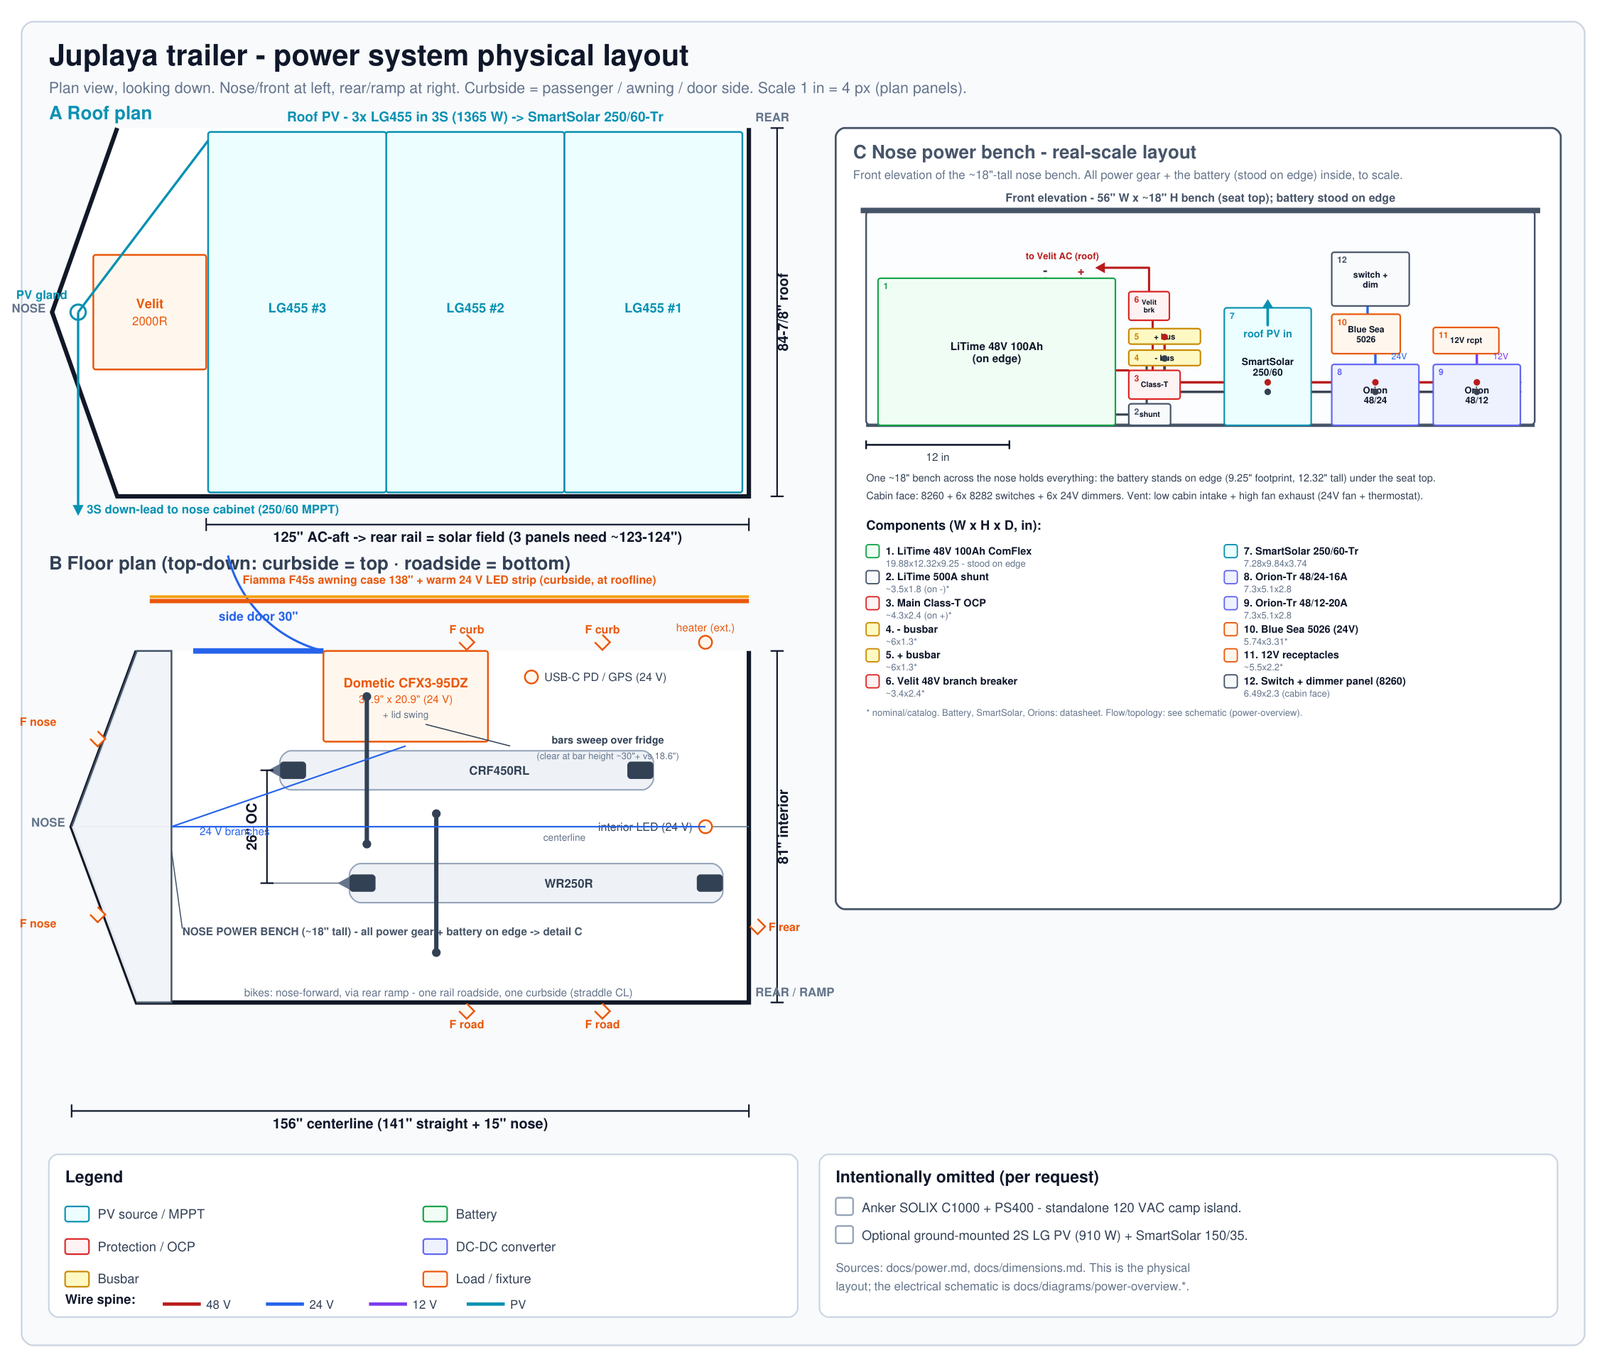
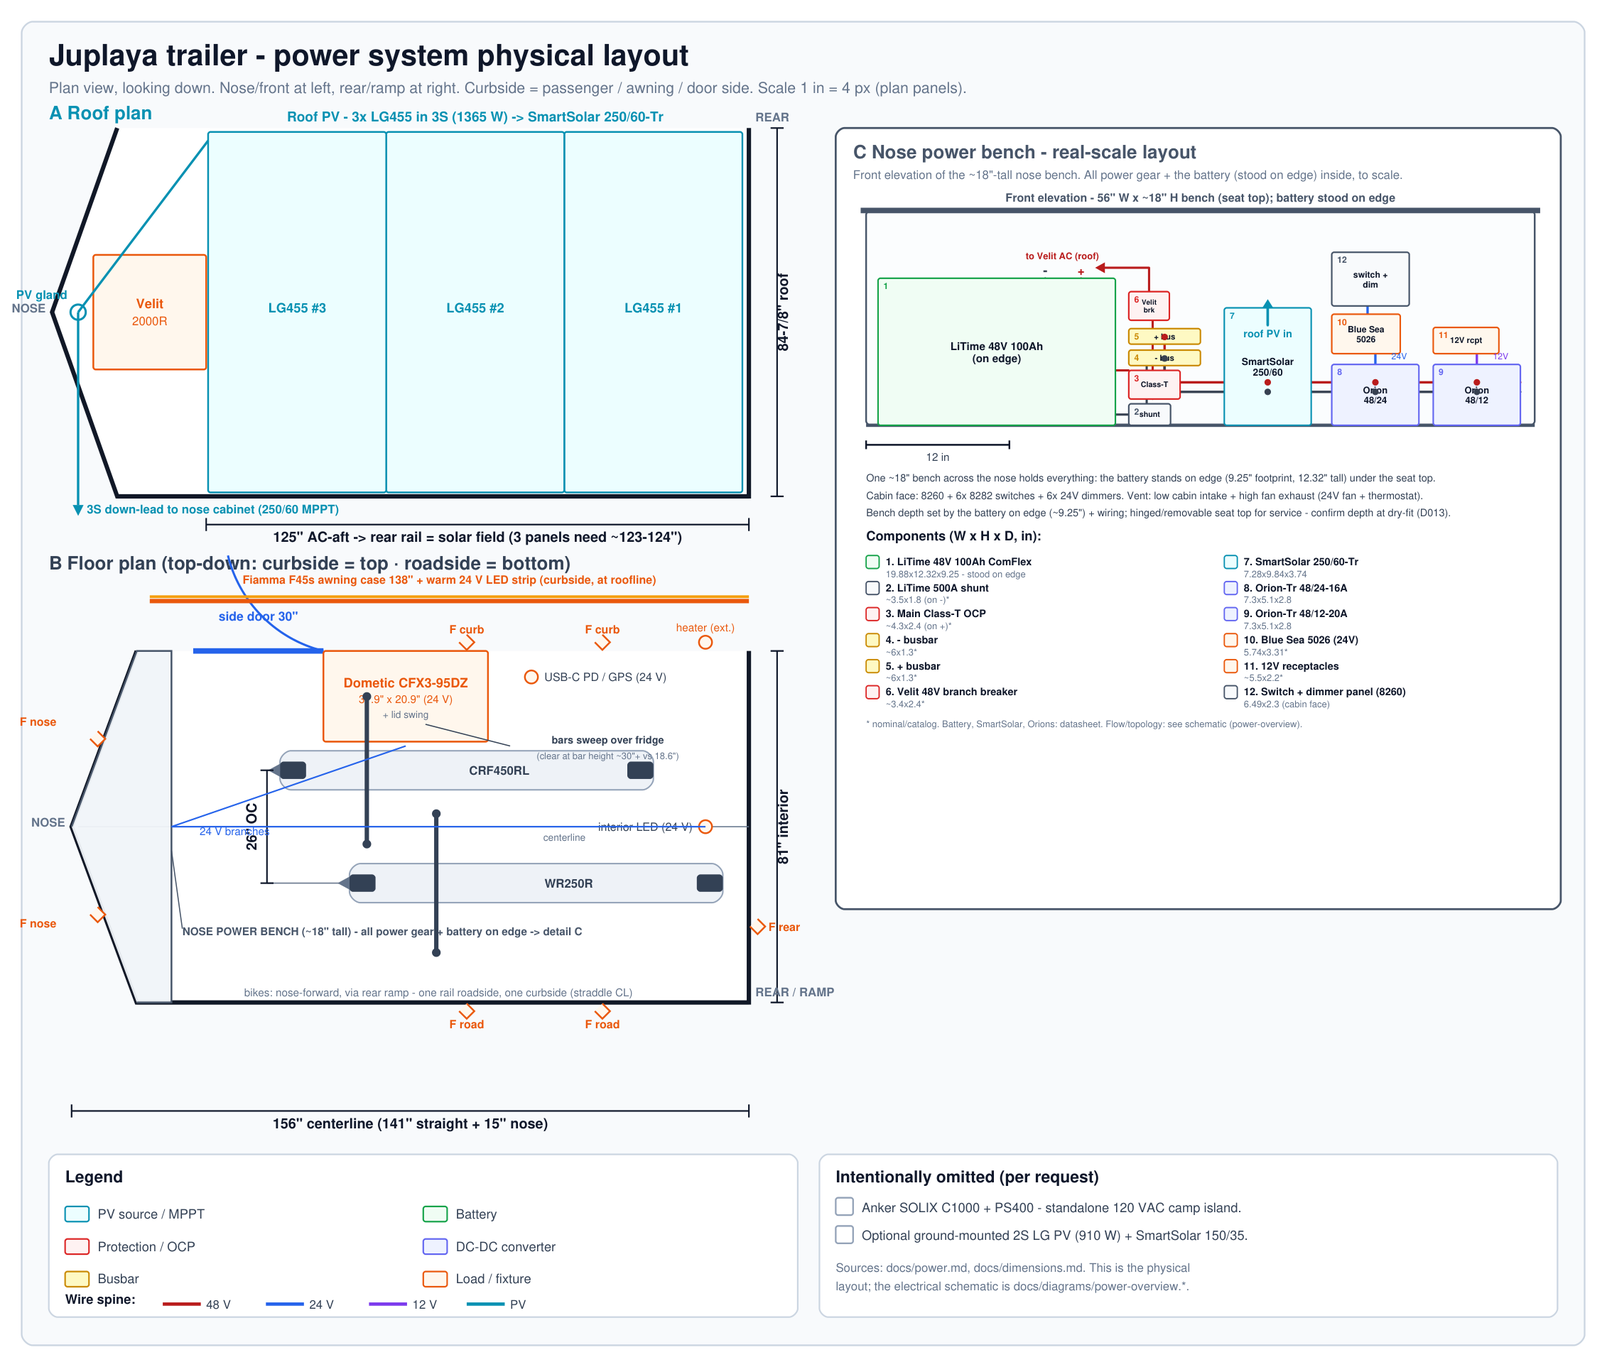
Ratify nose power bench (D013); propagate to build docs
- DECISION_LOG: add D013 (accepted) - nose power = one ~18" bench across
  the V-nose holding all power gear, battery stood on edge. Supersedes the
  ~8" wall cabinet + floor-mounted battery; D006 electrical content stands,
  only the housing changes. Open build details: bench depth, hinged/
  removable seat top for service, ventilation sizing.
- Build sheet: step 10 rewritten as the nose power bench (battery on edge,
  hinged top, confirm depth at dry-fit); fridge thermal note now references
  the nose-bench plume; "power cabinet" -> "nose bench" throughout.
- Diagram: added the bench depth + hinged/removable-top service note
  (cites D013) under the Panel C elevation.

Changed region(s): [[0.5261, 0.374, 0.7118, 0.5299], [0.7427, 0.374, 0.8665, 0.5299]]

diff --git a/scripts/generate_power_physical_layout_svg.py b/scripts/generate_power_physical_layout_svg.py
@@ -418,6 +418,8 @@ text(EX0, EYb + 52, "One ~18\" bench across the nose holds everything: the batte
      "(9.25\" footprint, 12.32\" tall) under the seat top.", size=9.5, fill=C["slate"])
 text(EX0, EYb + 68, "Cabin face: 8260 + 6x 8282 switches + 6x 24V dimmers. "
      "Vent: low cabin intake + high fan exhaust (24V fan + thermostat).", size=9.5, fill=C["slate"])
+text(EX0, EYb + 84, "Bench depth set by the battery on edge (~9.25\") + wiring; "
+     "hinged/removable seat top for service - confirm depth at dry-fit (D013).", size=9.5, fill=C["slate"])
 
 # component list (two columns, below)
 def listcol(items, lx, ytop):
@@ -426,10 +428,10 @@ def listcol(items, lx, ytop):
         rect(lx, yy - 10, 12, 12, fill=fill, stroke=stroke, sw=1.2, rx=2)
         text(lx + 18, yy - 1, f"{n}. {name}", size=9.5, weight=700, fill=C["ink"])
         text(lx + 18, yy + 10, dims, size=8.5, fill=C["muted"])
-text(EX0, EYb + 96, "Components  (W x H x D, in):", size=12, weight=700)
-listcol(comps[:6], EX0, EYb + 120)
-listcol(comps[6:], EX0 + 330, EYb + 120)
-text(EX0, EYb + 120 + 6 * 24 + 4, "* nominal/catalog. Battery, SmartSolar, Orions: datasheet. "
+text(EX0, EYb + 106, "Components  (W x H x D, in):", size=12, weight=700)
+listcol(comps[:6], EX0, EYb + 130)
+listcol(comps[6:], EX0 + 330, EYb + 130)
+text(EX0, EYb + 130 + 6 * 24 + 4, "* nominal/catalog. Battery, SmartSolar, Orions: datasheet. "
      "Flow/topology: see schematic (power-overview).", size=8.5, fill=C["muted"])
 
 # ---------------------------------------------------------------------------

diff --git a/docs/juplaya-trailer-context.md b/docs/juplaya-trailer-context.md
@@ -43,7 +43,7 @@ Detailed power design, diagrams, component tables, and commissioning rules now l
 
 Current Juplaya power verdict:
 
-- **DC trailer core:** roof 3× LG455 in 3S → Victron SmartSolar 250/60-Tr → LiTime 48V 100Ah ComFlex. Velit 2000R runs from a fused 48 V branch. Fridge/lights/USB/GPS run from the 24 V bus through one Victron Orion-Tr 48/24-16A. A Victron Orion-Tr IP43 48/12-20A feeds fused cigarette-lighter receptacles in the power cabinet for occasional 12 V loads.
+- **DC trailer core:** roof 3× LG455 in 3S → Victron SmartSolar 250/60-Tr → LiTime 48V 100Ah ComFlex. Velit 2000R runs from a fused 48 V branch. Fridge/lights/USB/GPS run from the 24 V bus through one Victron Orion-Tr 48/24-16A. A Victron Orion-Tr IP43 48/12-20A feeds fused cigarette-lighter receptacles in the nose bench for occasional 12 V loads.
 - **Optional trailer-battery margin:** deployable 2× LG455 in 2S → ordered Victron SmartSolar 150/35. Never combine roof 3S and ground 2S on one tracker.
 - **Small 120 VAC / storage comms:** Anker SOLIX C1000 + PS400 is the Juplaya AC island. Optional C1000 top-up from the trailer is only a fused/manual 24 V branch, about 240 W max, and must not starve the Orion/fridge bus. Starlink Mini is optional storage/camp comms, not the primary tracker; run it from the C1000 first or from a fused 12 V cabinet receptacle with Starlink's 12-24 V car adapter after shakedown.
 - **Deferred:** Victron MultiPlus-II 48/3000/35-50 120V remains the Phase 2 built-in inverter/shore-charger/transfer choice, not a Juplaya blocker.
@@ -178,7 +178,7 @@ Why this replaces the old rubber-coin lean: common coin roll is usually SBR (sty
 ### Fridge bay
 
 - **Curbside, immediately aft of the personnel door**, fridge E-track-strapped. Footprint 37.9" × 20.9" × 18.6" tall **plus lid-swing clearance — verify which way the split lids hinge before fixing the bay's wall orientation.** The location survives: outside reach under the awning, lid access in both modes, clear of the door swing.
-- **⚠ Thermal gate — HARDENED `[web-val]`:** the Dometic manual requires a **50 mm (~2") gap on all four sides** and flatly says **"do not place the cooling device in closed compartments."** An enclosed bay is non-compliant as worded. So: **the bay gives 50 mm all-sides clearance + forced through-flow ventilation** — "shaded" alone doesn't cut it. Then field-verify in-bay air temperature under desert sun with the awning out: **<43 °C (110 °F) to run at all, <30 °C (86 °F) to hold both dual-zone setpoints.** Keep the bay off the nose-cabinet heat plume. (Dometic error codes: Warning 34 = high ambient / blocked vent; Warning 33 = low supply voltage — see Systems for the wiring check.)
+- **⚠ Thermal gate — HARDENED `[web-val]`:** the Dometic manual requires a **50 mm (~2") gap on all four sides** and flatly says **"do not place the cooling device in closed compartments."** An enclosed bay is non-compliant as worded. So: **the bay gives 50 mm all-sides clearance + forced through-flow ventilation** — "shaded" alone doesn't cut it. Then field-verify in-bay air temperature under desert sun with the awning out: **<43 °C (110 °F) to run at all, <30 °C (86 °F) to hold both dual-zone setpoints.** Keep the bay off the nose-bench heat plume. (Dometic error codes: Warning 34 = high ambient / blocked vent; Warning 33 = low supply voltage — see Systems for the wiring check.)
 
 ### Walls — D009 (accepted)
 
@@ -207,7 +207,7 @@ Why this replaces the old rubber-coin lean: common coin roll is usually SBR (sty
 
 ### Lighting
 
-- **Switches live on the power cabinet for Juplaya.** Skip the entry-door light switch for now; it adds wall/door-area wiring and is easy to revisit later if use proves it matters. If convenient while walls are open, leave a labeled pull string or spare low-current pair toward the side-door bay.
+- **Switches live on the nose bench for Juplaya.** Skip the entry-door light switch for now; it adds wall/door-area wiring and is easy to revisit later if use proves it matters. If convenient while walls are open, leave a labeled pull string or spare low-current pair toward the side-door bay.
 - **Lighting controls — D012:** keep the six cabinet lighting switches and put a panel-mount 24 V dimmer downstream of each switched branch: INTERIOR, CURB FLOOD, ROAD FLOOD, NOSE FLOOD, REAR FLOOD, and AWNING. The switches are hard enables; the dimmers set brightness.
 - **Exterior lighting layout:** **2 curbside floods, 2 roadside floods, 1 flood on each V-nose face, 1 rear flood, plus separate awning lighting**. Optional low amber step/courtesy can share the awning circuit if added. Run them from the **24 V house bus** using 12-28 VDC / 10-30 VDC IP67-ish fixtures, fused per branch, switched and dimmed at the cabinet. Keep all house exterior lighting isolated from the OEM trailer lights and 7-way tow plug.
 - **Selected fixture class:** seven **Super Bright LEDs `VAL2-NW9`** floods (9", black, 1450 lm, 18 W, 4000 K, 90 deg, IP67, 12-28 VDC) are **ORDERED** per the [exterior-lighting panel](../runs/exterior-lighting-panel/synth/VERDICT.md). `VAL2-WW9` is the warm 3000 K alternate if replacement stock is ever needed. Use separate warm 24 V dimmable strip lighting for the awning, such as **`RA-IP68-80CRI-5m` 3000 K**, not another glare flood.
@@ -226,9 +226,9 @@ Why this replaces the old rubber-coin lean: common coin roll is usually SBR (sty
 
 Dedicated ordering and budget ledger: **[order-sheet.md](order-sheet.md)**. The list below stays abbreviated so this build sheet remains the engineering source of truth instead of the purchasing ledger.
 
-- **Long-lead, order now:** return LiTime 5 kW; **defer the Victron MultiPlus-II until Phase 2** · Fiamma F45s 350 + Tie Down S + lag anchors/deadman bags · Victron Orion-Tr 48/24-16A · **Victron Orion-Tr IP43 48/12-20A — ADDED for power-cabinet 12 V receptacles** · **Victron SmartSolar MPPT 250/60-Tr + 250 V-class roof PV disconnect/OCP** · **Victron SmartSolar MPPT 150/35 for deployable 2S LG ground — ORDERED, connector variant pending** · the 48 V-side UL-489 breaker (**verify SKU: 7463 vs "7443"**, web-val) · **power-cabinet interior transfer grilles/filter + 24 V cabinet fan + normally-open thermostat** · standoff + backing steel stock (owner fab) · **2 × 8 ft flanged floor L-track — ORDERED / on the way** · **Bolt It On 360 L-track wheel chocks — ORDERED**.
+- **Long-lead, order now:** return LiTime 5 kW; **defer the Victron MultiPlus-II until Phase 2** · Fiamma F45s 350 + Tie Down S + lag anchors/deadman bags · Victron Orion-Tr 48/24-16A · **Victron Orion-Tr IP43 48/12-20A — ADDED for nose-bench 12 V receptacles** · **Victron SmartSolar MPPT 250/60-Tr + 250 V-class roof PV disconnect/OCP** · **Victron SmartSolar MPPT 150/35 for deployable 2S LG ground — ORDERED, connector variant pending** · the 48 V-side UL-489 breaker (**verify SKU: 7463 vs "7443"**, web-val) · **nose-bench interior transfer grilles/filter + 24 V cabinet fan + normally-open thermostat** · standoff + backing steel stock (owner fab) · **2 × 8 ft flanged floor L-track — ORDERED / on the way** · **Bolt It On 360 L-track wheel chocks — ORDERED**.
 - **Coatings:** Henry 887 Tropi-Cool White 100% Silicone Roof Coating (HE887HS018, 4.75 gal pail) + Henry 884 Tropi-Cool silicone sealant · **Durabak-18 Outdoor Textured light grey, 3 gal — ORDERED, delivery June 12–15, 2026; 4th gal conditional** after patch/first-pass coverage for ramp/chock/L-track wear lanes.
-- **Accessories:** Blue Sea 5026 · Scanstrut SC-USB-F3 · LandAirSea Overdrive Permanent GPS with hardwire cable — ORDERED · locks (above) including ordered Nu-Set personnel-door hasp/backing · 14 AWG runs + fuse assortment · fused cigarette-lighter receptacles for the power cabinet · optional Starlink Mini treated as storage/camp comms · dome/task lights (24 V preferred; 12 V only at the cabinet outlets) · **exterior lighting: 7 × Super Bright LEDs `VAL2-NW9` floods — ORDERED, 1 × warm 24 V awning strip such as `RA-IP68-80CRI-5m`, optional amber step/courtesy, Blue Sea 8260 switch panel + 6 × Blue Sea 8282 switches, 6 × panel-mount 24 V dimmers, and custom labels**.
+- **Accessories:** Blue Sea 5026 · Scanstrut SC-USB-F3 · LandAirSea Overdrive Permanent GPS with hardwire cable — ORDERED · locks (above) including ordered Nu-Set personnel-door hasp/backing · 14 AWG runs + fuse assortment · fused cigarette-lighter receptacles for the nose bench · optional Starlink Mini treated as storage/camp comms · dome/task lights (24 V preferred; 12 V only at the cabinet outlets) · **exterior lighting: 7 × Super Bright LEDs `VAL2-NW9` floods — ORDERED, 1 × warm 24 V awning strip such as `RA-IP68-80CRI-5m`, optional amber step/courtesy, Blue Sea 8260 switch panel + 6 × Blue Sea 8282 switches, 6 × panel-mount 24 V dimmers, and custom labels**.
 - **Windows:** 2× RP-FRMWIN-1222-TRM + 1× RP-FRMWIN-2015-TRM (placement decided — Climate section).
 
 ---
@@ -251,7 +251,7 @@ The design freeze (below) gates step 3 onward. Within the sequence, **"while the
 7. **Floor liner + walls closed** — floor L-track recessed/bolted through to steel/backing first; Durabak-18 floor+cove+ramp applied and cured; factory 3/8" PlexCore + FRP land over the cove, seams/edges sealed, and trimmed to the wall E-track edges.
 8. **Window cuts + install** — after the row-12 clamp check against the real sandwich; door window gets perimeter re-framing.
 9. **Tracks & remaining floor hardware** — wall E-track rows bolted to the rivnuts in the posts; floor L-track masks pulled and slots/hardware inspected.
-10. **Nose cabinet** — battery, SmartSolar, shunt, breaker, Orion-Tr 48/24, Orion-Tr 48/12, 5026, fused 12 V receptacles; rail wiring out to branches; cabinet-to-cabin ventilation with low filtered intake, high fan-assisted exhaust, 24 V fan, and temperature switch. Avoid exterior penetrations for now; if shakedown heat becomes a real issue, reopen the exterior-vent fallback. MultiPlus mounting space can be reserved for Phase 2, but it is not a Juplaya install dependency.
+10. **Nose power bench (~18" tall) — D013** — one bench across the V-nose holds all power gear: the LiTime battery **stood on edge** (9.25" footprint, 12.32" tall) under the seat top, plus shunt, SmartSolar 250/60, Class-T main OCP, busbars, Orion-Tr 48/24, Orion-Tr 48/12, 5026, and fused 12 V receptacles; rail wiring out to branches. Bench-to-cabin ventilation: low filtered intake, high fan-assisted exhaust, 24 V fan, temperature switch. **Hinged/removable seat top for service access**; confirm front-to-back depth at dry-fit (battery ~9.25" on edge + wiring/working space). Avoid exterior penetrations for now; reopen the exterior-vent fallback if shakedown heat demands it. MultiPlus space can be reserved for Phase 2, but it is not a Juplaya install dependency.
 11. **Systems** — fridge bay (50 mm clearance + through-flow), cabinet-switched interior/exterior lights, USB/GPS, awning case onto the standoffs, tie-down anchors.
 12. **Weigh & commission** — scale (curb + tongue, row 18); combined charge-current cap ≤100 A; verify roof 3S lands only on SmartSolar and optional LG ground 2S lands only on its own MPPT path; verify the C1000 + PS400 covers small AC loads; if a 24 V C1000 top-up branch is added, test that it does not brown out or overload the Orion/fridge bus; shakedown camp before Juplaya.
 
@@ -272,7 +272,7 @@ The design freeze (below) gates step 3 onward. Within the sequence, **"while the
 | 7 | **Floor plan final** — bike stagger, fridge bay, L-track rows | 26" L-track spacing accepted; floor steel 16" OC and fridge bay depth recorded (rows 10, 17); bike tape geometry deferred in favor of physical bike-in-trailer fit check (row 11); 2×8 ft flanged L-track and Bolt It On 360 chocks received/fit-checked; chock hardware kit confirmed | ◐ measurements closed; physical fit/chock check open |
 | 8 | **Flooring material** | D010 accepted: Durabak-18 Outdoor Textured light grey, 3 gal ordered for June 12–15 delivery; 4th gal conditional after patch/first-pass coverage; PlexCore adhesion + fuel-drip patch required before coating | ☑ 2026-06-05 |
 | 9 | **FRP trim system** | corner/seam/edge/reveal profiles + adhesive picked; FRP adhesive compatible with PlexCore or proven by bond patch | ☐ |
-| 10 | **Order list frozen** — every SKU (incl. SmartSolar 250/60-Tr + 250 V-class PV disconnect/OCP, ordered SmartSolar 150/35 ground MPPT, roof solar rail/backing hardware, C1000/PS400 carried as the Juplaya AC island, 7463-vs-7443 breaker check, Henry 887/884, Durabak quantity, power-cabinet interior vent/fan/thermostat parts, exterior lighting + cabinet switch/dimmer parts, ordered floor L-track, ordered Bolt It On 360 chocks). MultiPlus-II remains Phase 2, not a freeze blocker. | rows 1–9 closed | ☐ |
+| 10 | **Order list frozen** — every SKU (incl. SmartSolar 250/60-Tr + 250 V-class PV disconnect/OCP, ordered SmartSolar 150/35 ground MPPT, roof solar rail/backing hardware, C1000/PS400 carried as the Juplaya AC island, 7463-vs-7443 breaker check, Henry 887/884, Durabak quantity, nose-bench interior vent/fan/thermostat parts, exterior lighting + cabinet switch/dimmer parts, ordered floor L-track, ordered Bolt It On 360 chocks). MultiPlus-II remains Phase 2, not a freeze blocker. | rows 1–9 closed | ☐ |
 
 Post-freeze (build-phase, not design): fridge-bay ventilation check + lid hinge orientation · deployed-fabric vs open-door at pitch · **curb-weight weigh-in** (row 18).
 

diff --git a/docs/DECISION_LOG.md b/docs/DECISION_LOG.md
@@ -43,6 +43,7 @@ expected to honor the budget; older rows may be grandfathered.
 | D010 | accepted | **Flooring: Durabak-18 Outdoor Textured light grey flexible polyurethane bed-liner coating**, 3 gal ordered 2026-06-05 for June 12–15 delivery; 4th gal remains conditional after patch/first-pass coverage for ramp/chock/L-track wear lanes. Recessed floor L-track stays masked and usable. | Rubber coin roll was the old lean, but common SBR coin rubber is wrong for moto fuel/oil spills and loose sheet goods trap playa dust/water against the wood floor. Raptor's acceptable light-gray 2K path had no local availability or reliable ETA, so it did not beat Durabak on schedule. | See the build sheet, Interior/Flooring section, plus the web-validation addendum and [floor-coating verdict](../runs/floor-coating-adversarial/synth/VERDICT.md). Sequence changes: floor L-track first, liner+cove before FRP, ramp included, drain to rear by raising the tongue. Wording is **fuel/oil spill-resistant, clean promptly**, not fuel-proof. | PlexCore adhesion or fuel-drip patch fails, texture is unacceptable for camp use, Durabak delivery slips past the June 12–15 window, or 3 gal coverage proves short enough to release the conditional 4th gallon. |
 | D011 | accepted | **Wall E-track mounts directly to the 1" thin-wall steel tube uprights with steel 1/4-20 rivnuts; PlexCore/FRP trim up to the track so it sits flush or slightly proud, with fasteners visible.** | Wall E-track is the bed/shelf/module grid and should load the steel posts rather than the finish panels. Steel 1/4-20 rivnuts keep the wall-track hardware on the same inch-thread system as the rest of the build and give a better serviceable machine-thread joint in thin tube than sheet-metal screws. | See the build sheet, Bed & wall tracks section. Use wall E-track for bed shoring, shelves, gear modules, anti-tip straps, and panel transport. **Primary motorcycle restraint remains floor L-track plus the factory 5,000 lb D-rings tied to the steel frame/crossmembers.** If a row shows movement in service, add welded tabs or backing strips to the uprights while keeping the E-track bolted and replaceable. | Actual post wall thickness or track fit prevents a clean 1/4-20 rivnut install, fittings do not clear the trimmed FRP edge, or service testing shows row movement. |
 | D012 | proposed | **Lighting controls: keep the six cabinet lighting switches, and add panel-mount 24 V dimmer controls downstream: INTERIOR, CURB FLOOD, ROAD FLOOD, NOSE FLOOD, REAR FLOOD, and AWNING.** | Interior/camp lighting and all four exterior sides need independent brightness control, not just on/off work-light behavior; the finished cabinet should not depend on loose inline dimmer boxes. | See [power.md](power.md), Lighting and Switches. Switches remain hard enables at the power cabinet; dimmers sit downstream on each fused branch. Exact dimmer SKU waits for cabinet-panel mockup and bench test. Bench-test the ordered `VAL2-NW9` flood/scene fixtures with the selected dimmer before final mounting, because the product specs do not explicitly claim dimmer compatibility. | VAL2 fixtures flicker, buzz, shut down, or run hot on the selected dimmer; panel space forces a different control layout; or field use says one exterior side can stay switch-only. |
+| D013 | accepted | **Nose power = a single ~18"-tall bench across the V-nose holding ALL power gear, battery included.** The LiTime 48V 100Ah battery **stands on edge** (9.25" footprint, 12.32" tall) under the bench top; shunt, Class-T OCP, busbars, SmartSolar 250/60-Tr, both Orion-Tr converters, Blue Sea 5026, 12 V receptacles, and the switch/dimmer panel all share the bench. Supersedes the earlier split (~8" wall cabinet + floor-mounted battery). | A bench is simpler to build and service than a wall cabinet, doubles as a nose seat/step, and the battery's 9.25" minimum face fits on edge under an 18" top with clearance. The electrical design is unchanged — only the housing form-factor. | Electrical content of D006 (24 V bus, converters, protection) stands; only the housing changes. Switch/dimmer panel on the bench cabin-face; vent the bench (low cabin intake + high fan-assisted exhaust, 24 V fan + thermostat); keep the curbside fridge bay off the bench heat plume. See [power.md](power.md) 48 V Stack and the [physical layout](diagrams/power-physical-layout.svg). **Open build details:** bench front-to-back depth (battery ~9.25" on edge + wiring/working space), hinged/removable seat top for service access, and bench ventilation sizing. | Bench depth/seat ergonomics fail dry-fit, ventilation can't hold the 40 °C derate cap, or service access proves impractical. |
 
 ## Web-validation pass (2026-06-05)
 
